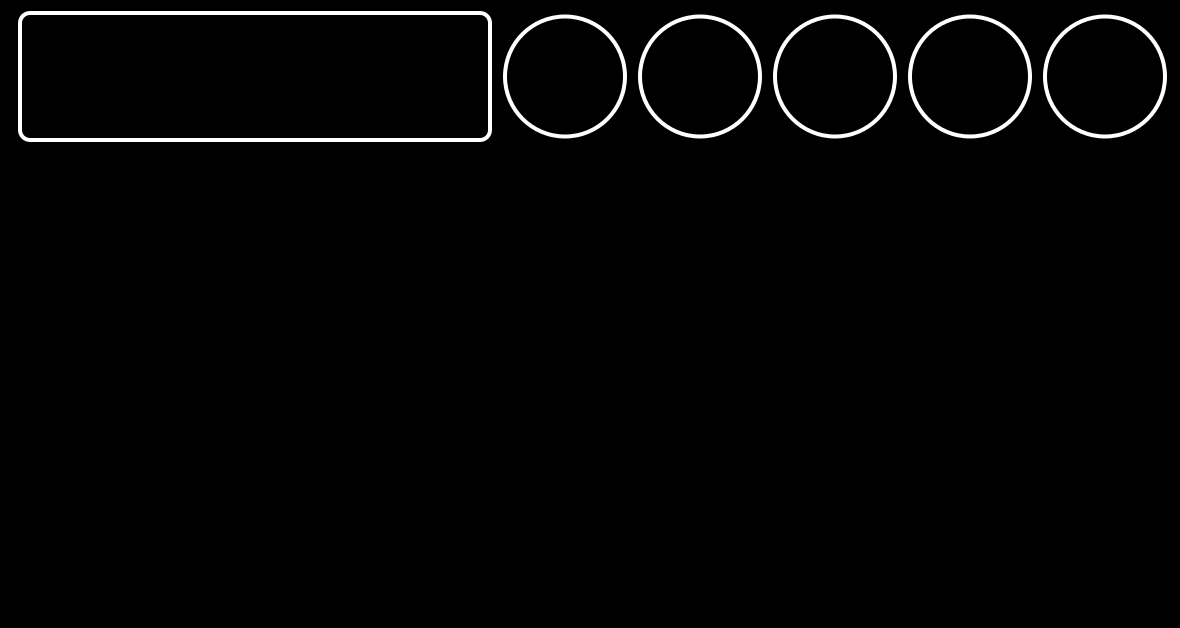
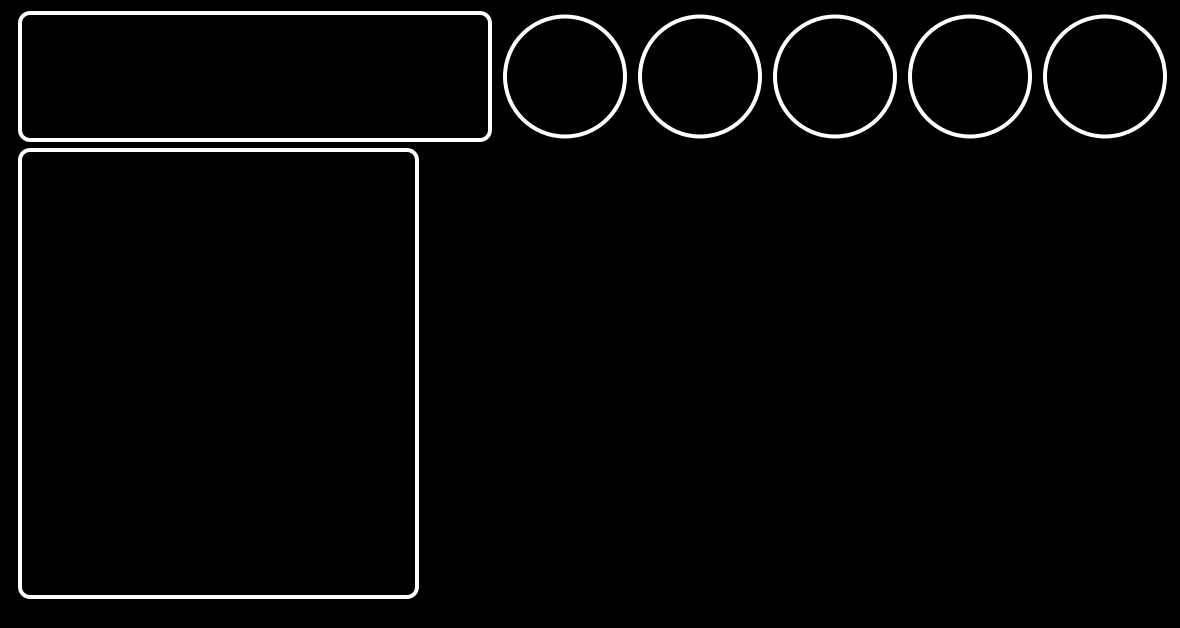
Add pvp box

Changed region(s): [[0.0, 0.2118, 0.3661, 0.9682]]

diff --git a/src/main.rs b/src/main.rs
@@ -6,12 +6,12 @@ use cairo::{Context, Format, ImageSurface};
 use std::f64::consts;
 use std::fs::File;
 
-struct rectangle {
+struct Rectangle {
     pub top_left: (f64, f64),
     pub bottom_right: (f64, f64),
 }
 
-impl rectangle {
+impl Rectangle {
     pub fn draw(self: &Self, ctx: &Context) {
         let circle_width = 10.0;
 
@@ -87,7 +87,7 @@ fn main() {
     let top_margin = 13.0;
     let border_margin = 20.0;
 
-    let person_box = rectangle {
+    let person_box = Rectangle {
         top_left: (border_margin, top_margin),
         bottom_right: (490.0, 140.0),
     };
@@ -109,11 +109,16 @@ fn main() {
         );
     };
 
-    circle(0);
-    circle(1);
-    circle(2);
-    circle(3);
-    circle(4);
+    for i in 0..5 {
+        circle(i);
+    }
+
+    let pvp_box = Rectangle {
+        top_left: (person_box.top_left.0, person_box.bottom_right.1 + 10.0),
+        bottom_right: (417.0, 597.0),
+    };
+
+    pvp_box.draw(&ctx);
 
     // draw_circle(&ctx, (693.0+63.5, 83.0), 63.5);
 
